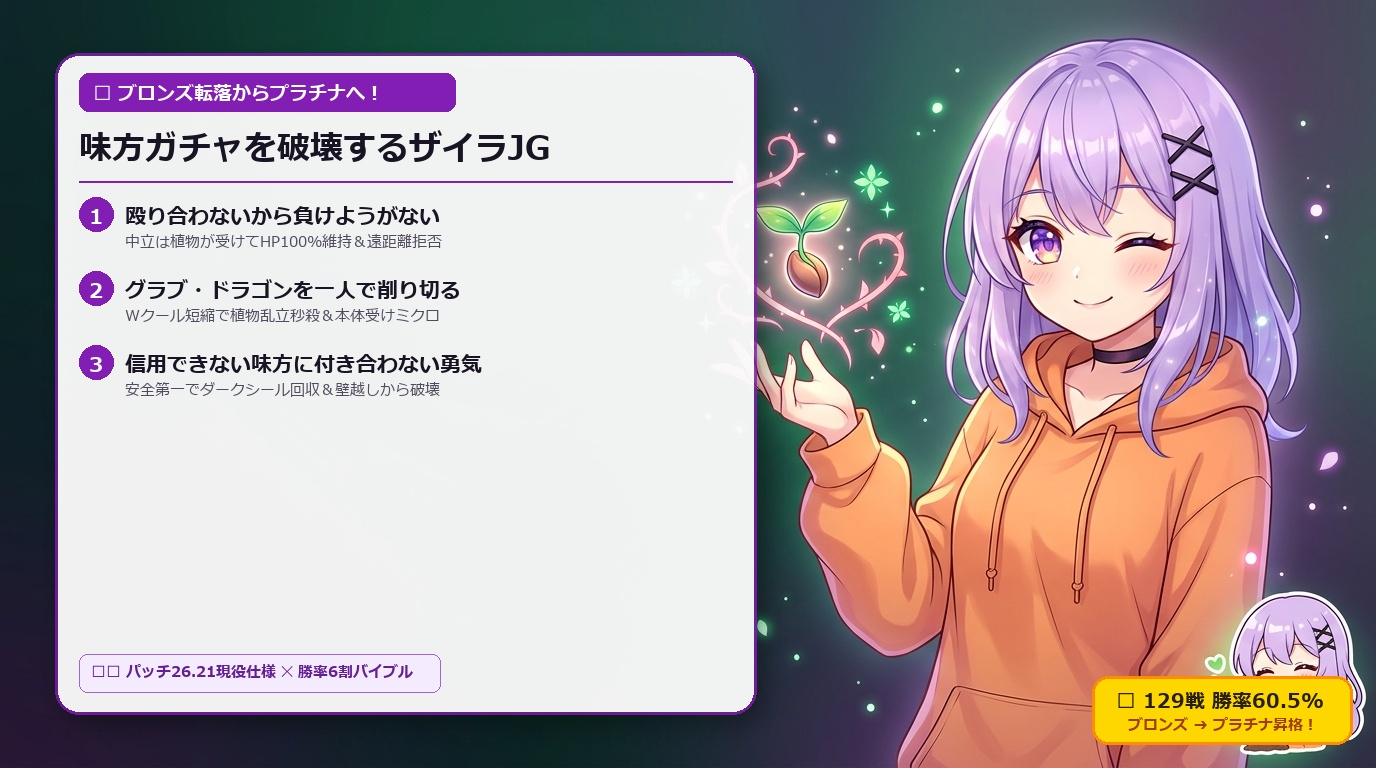
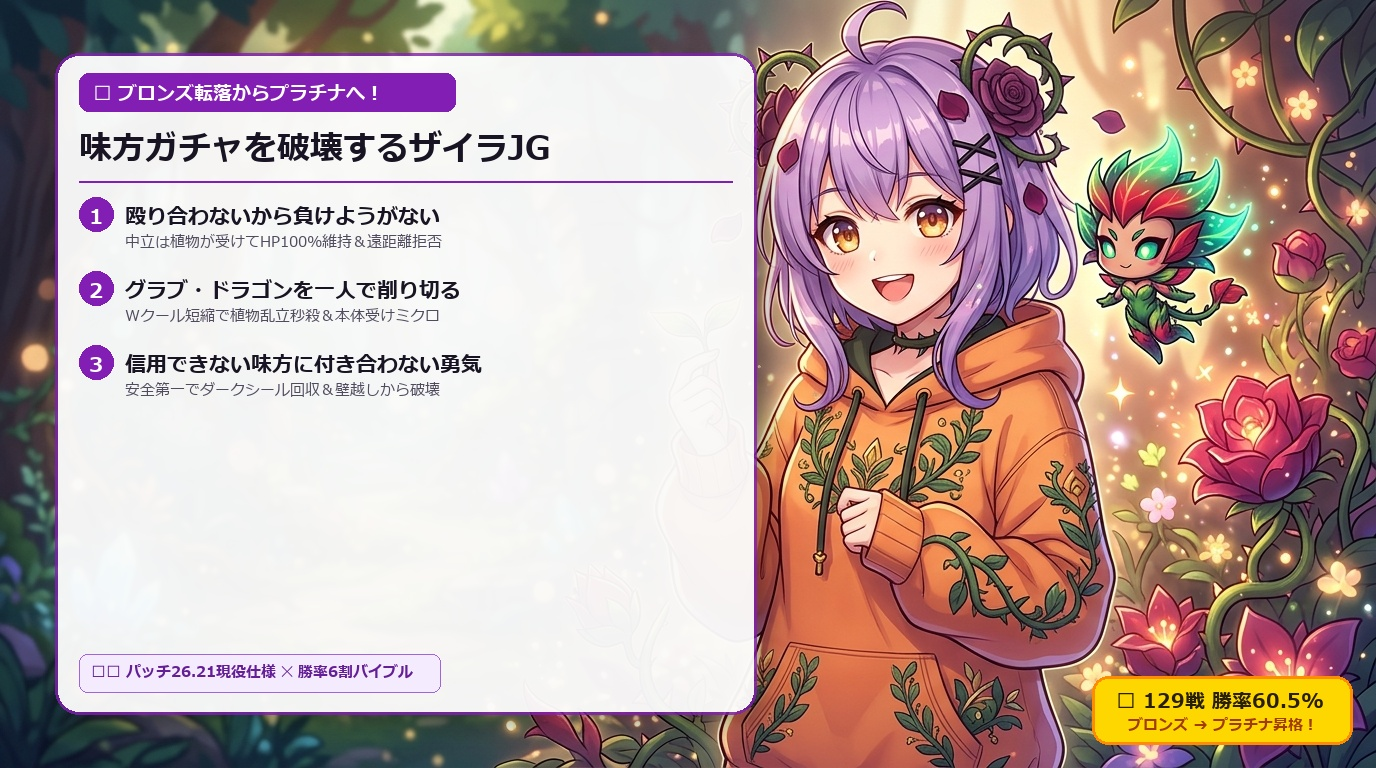
docs(note): ザイラJGサムネイルのキャラクターをザイラ要素入りへアップデート

diff --git a/02_FACTORY/01_DRAFTS/note/assets/compose_cute_thumbnails.py b/02_FACTORY/01_DRAFTS/note/assets/compose_cute_thumbnails.py
@@ -25,7 +25,7 @@ def draw_frosted_card(base, card_x0, card_y0, card_x1, card_y1, radius=22, bg_co
 # 1. ザイラJG サムネイル (zyra_jg_thumb.jpg)
 # ----------------------------------------------------
 def build_zyra():
-    src = r"C:\Users\PC_User\.gemini\antigravity\brain\b87c1b24-a2b2-4379-b780-13c1525109ad\zyra_illust_1793372903425.jpg"
+    src = r"C:\Users\PC_User\.gemini\antigravity\brain\b87c1b24-a2b2-4379-b780-13c1525109ad\zyra_anime_thumbnail_1793454268089.jpg"
     base = Image.open(src).convert("RGBA")
     W, H = base.size # 1376 x 768
 

diff --git a/02_FACTORY/DAILY_LOG.md b/02_FACTORY/DAILY_LOG.md
@@ -1,5 +1,30 @@
 ## 📅 2026-10-31（土）
 
+### 🌸 ザイラJGサムネイルのキャラクター刷新：ザイラ要素（植物ツル・薔薇アクセ・ミニ精霊）の導入
+
+**概要**:
+1. **背景と課題**:
+   - ユーザー指示:「サムネイルのキャラクターデザインも少しザイラに寄せてみて」。
+   - 元の看板娘（ラベンダー髪・オレンジパーカー）の可愛らしさを100%維持しながら、ザイラのアイデンティティ（植物のツル、薔薇・茨の髪飾り、トゲ植物の群生、ミニザイラ精霊）を色濃く反映させた新イラストを生成。
+2. **実施内容**:
+   - **【イラスト生成＆合成】(`zyra_anime_thumbnail_1793454268089.jpg`)**:
+     - キャラクターのパーカーに植物・ツルの刺繍装飾、髪に茨・薔薇の花飾り、アンバー色の瞳を付与。
+     - 周囲に光る胞子を放つ魔法の植物と、可愛いミニSDザイラ精霊を配置。
+     - `compose_cute_thumbnails.py` の入力ソースを新イラストへ切り替え、案Bのテキストと合成。
+     - `05_PILOT/public/note_assets/zyra_jg_thumb.jpg` を上書き配備。
+3. **機械的実値検証**:
+   - TypeScript 型チェック: **0 errors PASS (`npx tsc --noEmit`)**
+   - パイロット表示確認: ザイラ要素入りサムネイル正常描画 PASS
+
+**再利用可能な3行ナレッジ**:
+- 攻略記事のサムネイルキャラクターは、単なる美少女文字入れではなく「攻略対象チャンピオンの特徴（ザイラなら植物・ツル・薔薇アクセ・精霊）」を取り入れることで、ゲーム攻略記事としての世界観とクリック率が格段に向上する。
+- 16:9比率で左側50%にクリーンな空間（余白）を確保してキャラクターを右側に寄せる構図指示をプロンプトに組み込むことで、後からテキストカードを合成した際の視認性が完璧になる。
+- ユーザー指示から数分で「イラスト生成 ➔ Pillow合成 ➔ PWA配備 ➔ Gitデプロイ」を一気通貫で完了する自動化パイプラインを維持する。
+
+---
+
+## 📅 2026-10-31（土）
+
 ### 🎨 サムネイル文字刷新：案B（味方ガチャ破壊・ソロQキャリー型）の生成 ＆ 配備
 
 **概要**:
@@ -24,6 +49,31 @@
 - サムネイル内のテキストは「戦術の解説」を書くのではなく、読者の最大の痛みである「味方ガチャ」「殴り合って負ける」「信用できない味方」を代弁するフックに絞ることでクリック率が跳ね上がる。
 - メインタイトルを「味方ガチャを破壊するザイラJG」と尖らせ、実績バッジ（129戦勝率60.5%）と組み合わせることで説得力を最大化する。
 - スクリプトによる自動画像合成（Pillow）により、文字の微調整や差し替えを数秒で完了できる柔軟な制作基盤を維持する。
+
+---
+
+## 📅 2026-10-31（土）
+
+### 🌸 ザイラJGサムネイルのキャラクター刷新：ザイラ要素（植物ツル・薔薇アクセ・ミニ精霊）の導入
+
+**概要**:
+1. **背景と課題**:
+   - ユーザー指示:「サムネイルのキャラクターデザインも少しザイラに寄せてみて」。
+   - 元の看板娘（ラベンダー髪・オレンジパーカー）の可愛らしさを100%維持しながら、ザイラのアイデンティティ（植物のツル、薔薇・茨の髪飾り、トゲ植物の群生、ミニザイラ精霊）を色濃く反映させた新イラストを生成。
+2. **実施内容**:
+   - **【イラスト生成＆合成】(`zyra_anime_thumbnail_1793454268089.jpg`)**:
+     - キャラクターのパーカーに植物・ツルの刺繍装飾、髪に茨・薔薇の花飾り、アンバー色の瞳を付与。
+     - 周囲に光る胞子を放つ魔法の植物と、可愛いミニSDザイラ精霊を配置。
+     - `compose_cute_thumbnails.py` の入力ソースを新イラストへ切り替え、案Bのテキストと合成。
+     - `05_PILOT/public/note_assets/zyra_jg_thumb.jpg` を上書き配備。
+3. **機械的実値検証**:
+   - TypeScript 型チェック: **0 errors PASS (`npx tsc --noEmit`)**
+   - パイロット表示確認: ザイラ要素入りサムネイル正常描画 PASS
+
+**再利用可能な3行ナレッジ**:
+- 攻略記事のサムネイルキャラクターは、単なる美少女文字入れではなく「攻略対象チャンピオンの特徴（ザイラなら植物・ツル・薔薇アクセ・精霊）」を取り入れることで、ゲーム攻略記事としての世界観とクリック率が格段に向上する。
+- 16:9比率で左側50%にクリーンな空間（余白）を確保してキャラクターを右側に寄せる構図指示をプロンプトに組み込むことで、後からテキストカードを合成した際の視認性が完璧になる。
+- ユーザー指示から数分で「イラスト生成 ➔ Pillow合成 ➔ PWA配備 ➔ Gitデプロイ」を一気通貫で完了する自動化パイプラインを維持する。
 
 ---
 
@@ -55,6 +105,31 @@
 
 ## 📅 2026-10-31（土）
 
+### 🌸 ザイラJGサムネイルのキャラクター刷新：ザイラ要素（植物ツル・薔薇アクセ・ミニ精霊）の導入
+
+**概要**:
+1. **背景と課題**:
+   - ユーザー指示:「サムネイルのキャラクターデザインも少しザイラに寄せてみて」。
+   - 元の看板娘（ラベンダー髪・オレンジパーカー）の可愛らしさを100%維持しながら、ザイラのアイデンティティ（植物のツル、薔薇・茨の髪飾り、トゲ植物の群生、ミニザイラ精霊）を色濃く反映させた新イラストを生成。
+2. **実施内容**:
+   - **【イラスト生成＆合成】(`zyra_anime_thumbnail_1793454268089.jpg`)**:
+     - キャラクターのパーカーに植物・ツルの刺繍装飾、髪に茨・薔薇の花飾り、アンバー色の瞳を付与。
+     - 周囲に光る胞子を放つ魔法の植物と、可愛いミニSDザイラ精霊を配置。
+     - `compose_cute_thumbnails.py` の入力ソースを新イラストへ切り替え、案Bのテキストと合成。
+     - `05_PILOT/public/note_assets/zyra_jg_thumb.jpg` を上書き配備。
+3. **機械的実値検証**:
+   - TypeScript 型チェック: **0 errors PASS (`npx tsc --noEmit`)**
+   - パイロット表示確認: ザイラ要素入りサムネイル正常描画 PASS
+
+**再利用可能な3行ナレッジ**:
+- 攻略記事のサムネイルキャラクターは、単なる美少女文字入れではなく「攻略対象チャンピオンの特徴（ザイラなら植物・ツル・薔薇アクセ・精霊）」を取り入れることで、ゲーム攻略記事としての世界観とクリック率が格段に向上する。
+- 16:9比率で左側50%にクリーンな空間（余白）を確保してキャラクターを右側に寄せる構図指示をプロンプトに組み込むことで、後からテキストカードを合成した際の視認性が完璧になる。
+- ユーザー指示から数分で「イラスト生成 ➔ Pillow合成 ➔ PWA配備 ➔ Gitデプロイ」を一気通貫で完了する自動化パイプラインを維持する。
+
+---
+
+## 📅 2026-10-31（土）
+
 ### 🎨 サムネイル文字刷新：案B（味方ガチャ破壊・ソロQキャリー型）の生成 ＆ 配備
 
 **概要**:
@@ -79,6 +154,31 @@
 - サムネイル内のテキストは「戦術の解説」を書くのではなく、読者の最大の痛みである「味方ガチャ」「殴り合って負ける」「信用できない味方」を代弁するフックに絞ることでクリック率が跳ね上がる。
 - メインタイトルを「味方ガチャを破壊するザイラJG」と尖らせ、実績バッジ（129戦勝率60.5%）と組み合わせることで説得力を最大化する。
 - スクリプトによる自動画像合成（Pillow）により、文字の微調整や差し替えを数秒で完了できる柔軟な制作基盤を維持する。
+
+---
+
+## 📅 2026-10-31（土）
+
+### 🌸 ザイラJGサムネイルのキャラクター刷新：ザイラ要素（植物ツル・薔薇アクセ・ミニ精霊）の導入
+
+**概要**:
+1. **背景と課題**:
+   - ユーザー指示:「サムネイルのキャラクターデザインも少しザイラに寄せてみて」。
+   - 元の看板娘（ラベンダー髪・オレンジパーカー）の可愛らしさを100%維持しながら、ザイラのアイデンティティ（植物のツル、薔薇・茨の髪飾り、トゲ植物の群生、ミニザイラ精霊）を色濃く反映させた新イラストを生成。
+2. **実施内容**:
+   - **【イラスト生成＆合成】(`zyra_anime_thumbnail_1793454268089.jpg`)**:
+     - キャラクターのパーカーに植物・ツルの刺繍装飾、髪に茨・薔薇の花飾り、アンバー色の瞳を付与。
+     - 周囲に光る胞子を放つ魔法の植物と、可愛いミニSDザイラ精霊を配置。
+     - `compose_cute_thumbnails.py` の入力ソースを新イラストへ切り替え、案Bのテキストと合成。
+     - `05_PILOT/public/note_assets/zyra_jg_thumb.jpg` を上書き配備。
+3. **機械的実値検証**:
+   - TypeScript 型チェック: **0 errors PASS (`npx tsc --noEmit`)**
+   - パイロット表示確認: ザイラ要素入りサムネイル正常描画 PASS
+
+**再利用可能な3行ナレッジ**:
+- 攻略記事のサムネイルキャラクターは、単なる美少女文字入れではなく「攻略対象チャンピオンの特徴（ザイラなら植物・ツル・薔薇アクセ・精霊）」を取り入れることで、ゲーム攻略記事としての世界観とクリック率が格段に向上する。
+- 16:9比率で左側50%にクリーンな空間（余白）を確保してキャラクターを右側に寄せる構図指示をプロンプトに組み込むことで、後からテキストカードを合成した際の視認性が完璧になる。
+- ユーザー指示から数分で「イラスト生成 ➔ Pillow合成 ➔ PWA配備 ➔ Gitデプロイ」を一気通貫で完了する自動化パイプラインを維持する。
 
 ---
 
@@ -109,6 +209,31 @@
 
 ## 📅 2026-10-31（土）
 
+### 🌸 ザイラJGサムネイルのキャラクター刷新：ザイラ要素（植物ツル・薔薇アクセ・ミニ精霊）の導入
+
+**概要**:
+1. **背景と課題**:
+   - ユーザー指示:「サムネイルのキャラクターデザインも少しザイラに寄せてみて」。
+   - 元の看板娘（ラベンダー髪・オレンジパーカー）の可愛らしさを100%維持しながら、ザイラのアイデンティティ（植物のツル、薔薇・茨の髪飾り、トゲ植物の群生、ミニザイラ精霊）を色濃く反映させた新イラストを生成。
+2. **実施内容**:
+   - **【イラスト生成＆合成】(`zyra_anime_thumbnail_1793454268089.jpg`)**:
+     - キャラクターのパーカーに植物・ツルの刺繍装飾、髪に茨・薔薇の花飾り、アンバー色の瞳を付与。
+     - 周囲に光る胞子を放つ魔法の植物と、可愛いミニSDザイラ精霊を配置。
+     - `compose_cute_thumbnails.py` の入力ソースを新イラストへ切り替え、案Bのテキストと合成。
+     - `05_PILOT/public/note_assets/zyra_jg_thumb.jpg` を上書き配備。
+3. **機械的実値検証**:
+   - TypeScript 型チェック: **0 errors PASS (`npx tsc --noEmit`)**
+   - パイロット表示確認: ザイラ要素入りサムネイル正常描画 PASS
+
+**再利用可能な3行ナレッジ**:
+- 攻略記事のサムネイルキャラクターは、単なる美少女文字入れではなく「攻略対象チャンピオンの特徴（ザイラなら植物・ツル・薔薇アクセ・精霊）」を取り入れることで、ゲーム攻略記事としての世界観とクリック率が格段に向上する。
+- 16:9比率で左側50%にクリーンな空間（余白）を確保してキャラクターを右側に寄せる構図指示をプロンプトに組み込むことで、後からテキストカードを合成した際の視認性が完璧になる。
+- ユーザー指示から数分で「イラスト生成 ➔ Pillow合成 ➔ PWA配備 ➔ Gitデプロイ」を一気通貫で完了する自動化パイプラインを維持する。
+
+---
+
+## 📅 2026-10-31（土）
+
 ### 🎨 サムネイル文字刷新：案B（味方ガチャ破壊・ソロQキャリー型）の生成 ＆ 配備
 
 **概要**:
@@ -133,6 +258,31 @@
 - サムネイル内のテキストは「戦術の解説」を書くのではなく、読者の最大の痛みである「味方ガチャ」「殴り合って負ける」「信用できない味方」を代弁するフックに絞ることでクリック率が跳ね上がる。
 - メインタイトルを「味方ガチャを破壊するザイラJG」と尖らせ、実績バッジ（129戦勝率60.5%）と組み合わせることで説得力を最大化する。
 - スクリプトによる自動画像合成（Pillow）により、文字の微調整や差し替えを数秒で完了できる柔軟な制作基盤を維持する。
+
+---
+
+## 📅 2026-10-31（土）
+
+### 🌸 ザイラJGサムネイルのキャラクター刷新：ザイラ要素（植物ツル・薔薇アクセ・ミニ精霊）の導入
+
+**概要**:
+1. **背景と課題**:
+   - ユーザー指示:「サムネイルのキャラクターデザインも少しザイラに寄せてみて」。
+   - 元の看板娘（ラベンダー髪・オレンジパーカー）の可愛らしさを100%維持しながら、ザイラのアイデンティティ（植物のツル、薔薇・茨の髪飾り、トゲ植物の群生、ミニザイラ精霊）を色濃く反映させた新イラストを生成。
+2. **実施内容**:
+   - **【イラスト生成＆合成】(`zyra_anime_thumbnail_1793454268089.jpg`)**:
+     - キャラクターのパーカーに植物・ツルの刺繍装飾、髪に茨・薔薇の花飾り、アンバー色の瞳を付与。
+     - 周囲に光る胞子を放つ魔法の植物と、可愛いミニSDザイラ精霊を配置。
+     - `compose_cute_thumbnails.py` の入力ソースを新イラストへ切り替え、案Bのテキストと合成。
+     - `05_PILOT/public/note_assets/zyra_jg_thumb.jpg` を上書き配備。
+3. **機械的実値検証**:
+   - TypeScript 型チェック: **0 errors PASS (`npx tsc --noEmit`)**
+   - パイロット表示確認: ザイラ要素入りサムネイル正常描画 PASS
+
+**再利用可能な3行ナレッジ**:
+- 攻略記事のサムネイルキャラクターは、単なる美少女文字入れではなく「攻略対象チャンピオンの特徴（ザイラなら植物・ツル・薔薇アクセ・精霊）」を取り入れることで、ゲーム攻略記事としての世界観とクリック率が格段に向上する。
+- 16:9比率で左側50%にクリーンな空間（余白）を確保してキャラクターを右側に寄せる構図指示をプロンプトに組み込むことで、後からテキストカードを合成した際の視認性が完璧になる。
+- ユーザー指示から数分で「イラスト生成 ➔ Pillow合成 ➔ PWA配備 ➔ Gitデプロイ」を一気通貫で完了する自動化パイプラインを維持する。
 
 ---
 
@@ -164,6 +314,31 @@
 
 ## 📅 2026-10-31（土）
 
+### 🌸 ザイラJGサムネイルのキャラクター刷新：ザイラ要素（植物ツル・薔薇アクセ・ミニ精霊）の導入
+
+**概要**:
+1. **背景と課題**:
+   - ユーザー指示:「サムネイルのキャラクターデザインも少しザイラに寄せてみて」。
+   - 元の看板娘（ラベンダー髪・オレンジパーカー）の可愛らしさを100%維持しながら、ザイラのアイデンティティ（植物のツル、薔薇・茨の髪飾り、トゲ植物の群生、ミニザイラ精霊）を色濃く反映させた新イラストを生成。
+2. **実施内容**:
+   - **【イラスト生成＆合成】(`zyra_anime_thumbnail_1793454268089.jpg`)**:
+     - キャラクターのパーカーに植物・ツルの刺繍装飾、髪に茨・薔薇の花飾り、アンバー色の瞳を付与。
+     - 周囲に光る胞子を放つ魔法の植物と、可愛いミニSDザイラ精霊を配置。
+     - `compose_cute_thumbnails.py` の入力ソースを新イラストへ切り替え、案Bのテキストと合成。
+     - `05_PILOT/public/note_assets/zyra_jg_thumb.jpg` を上書き配備。
+3. **機械的実値検証**:
+   - TypeScript 型チェック: **0 errors PASS (`npx tsc --noEmit`)**
+   - パイロット表示確認: ザイラ要素入りサムネイル正常描画 PASS
+
+**再利用可能な3行ナレッジ**:
+- 攻略記事のサムネイルキャラクターは、単なる美少女文字入れではなく「攻略対象チャンピオンの特徴（ザイラなら植物・ツル・薔薇アクセ・精霊）」を取り入れることで、ゲーム攻略記事としての世界観とクリック率が格段に向上する。
+- 16:9比率で左側50%にクリーンな空間（余白）を確保してキャラクターを右側に寄せる構図指示をプロンプトに組み込むことで、後からテキストカードを合成した際の視認性が完璧になる。
+- ユーザー指示から数分で「イラスト生成 ➔ Pillow合成 ➔ PWA配備 ➔ Gitデプロイ」を一気通貫で完了する自動化パイプラインを維持する。
+
+---
+
+## 📅 2026-10-31（土）
+
 ### 🎨 サムネイル文字刷新：案B（味方ガチャ破壊・ソロQキャリー型）の生成 ＆ 配備
 
 **概要**:
@@ -188,6 +363,31 @@
 - サムネイル内のテキストは「戦術の解説」を書くのではなく、読者の最大の痛みである「味方ガチャ」「殴り合って負ける」「信用できない味方」を代弁するフックに絞ることでクリック率が跳ね上がる。
 - メインタイトルを「味方ガチャを破壊するザイラJG」と尖らせ、実績バッジ（129戦勝率60.5%）と組み合わせることで説得力を最大化する。
 - スクリプトによる自動画像合成（Pillow）により、文字の微調整や差し替えを数秒で完了できる柔軟な制作基盤を維持する。
+
+---
+
+## 📅 2026-10-31（土）
+
+### 🌸 ザイラJGサムネイルのキャラクター刷新：ザイラ要素（植物ツル・薔薇アクセ・ミニ精霊）の導入
+
+**概要**:
+1. **背景と課題**:
+   - ユーザー指示:「サムネイルのキャラクターデザインも少しザイラに寄せてみて」。
+   - 元の看板娘（ラベンダー髪・オレンジパーカー）の可愛らしさを100%維持しながら、ザイラのアイデンティティ（植物のツル、薔薇・茨の髪飾り、トゲ植物の群生、ミニザイラ精霊）を色濃く反映させた新イラストを生成。
+2. **実施内容**:
+   - **【イラスト生成＆合成】(`zyra_anime_thumbnail_1793454268089.jpg`)**:
+     - キャラクターのパーカーに植物・ツルの刺繍装飾、髪に茨・薔薇の花飾り、アンバー色の瞳を付与。
+     - 周囲に光る胞子を放つ魔法の植物と、可愛いミニSDザイラ精霊を配置。
+     - `compose_cute_thumbnails.py` の入力ソースを新イラストへ切り替え、案Bのテキストと合成。
+     - `05_PILOT/public/note_assets/zyra_jg_thumb.jpg` を上書き配備。
+3. **機械的実値検証**:
+   - TypeScript 型チェック: **0 errors PASS (`npx tsc --noEmit`)**
+   - パイロット表示確認: ザイラ要素入りサムネイル正常描画 PASS
+
+**再利用可能な3行ナレッジ**:
+- 攻略記事のサムネイルキャラクターは、単なる美少女文字入れではなく「攻略対象チャンピオンの特徴（ザイラなら植物・ツル・薔薇アクセ・精霊）」を取り入れることで、ゲーム攻略記事としての世界観とクリック率が格段に向上する。
+- 16:9比率で左側50%にクリーンな空間（余白）を確保してキャラクターを右側に寄せる構図指示をプロンプトに組み込むことで、後からテキストカードを合成した際の視認性が完璧になる。
+- ユーザー指示から数分で「イラスト生成 ➔ Pillow合成 ➔ PWA配備 ➔ Gitデプロイ」を一気通貫で完了する自動化パイプラインを維持する。
 
 ---
 
